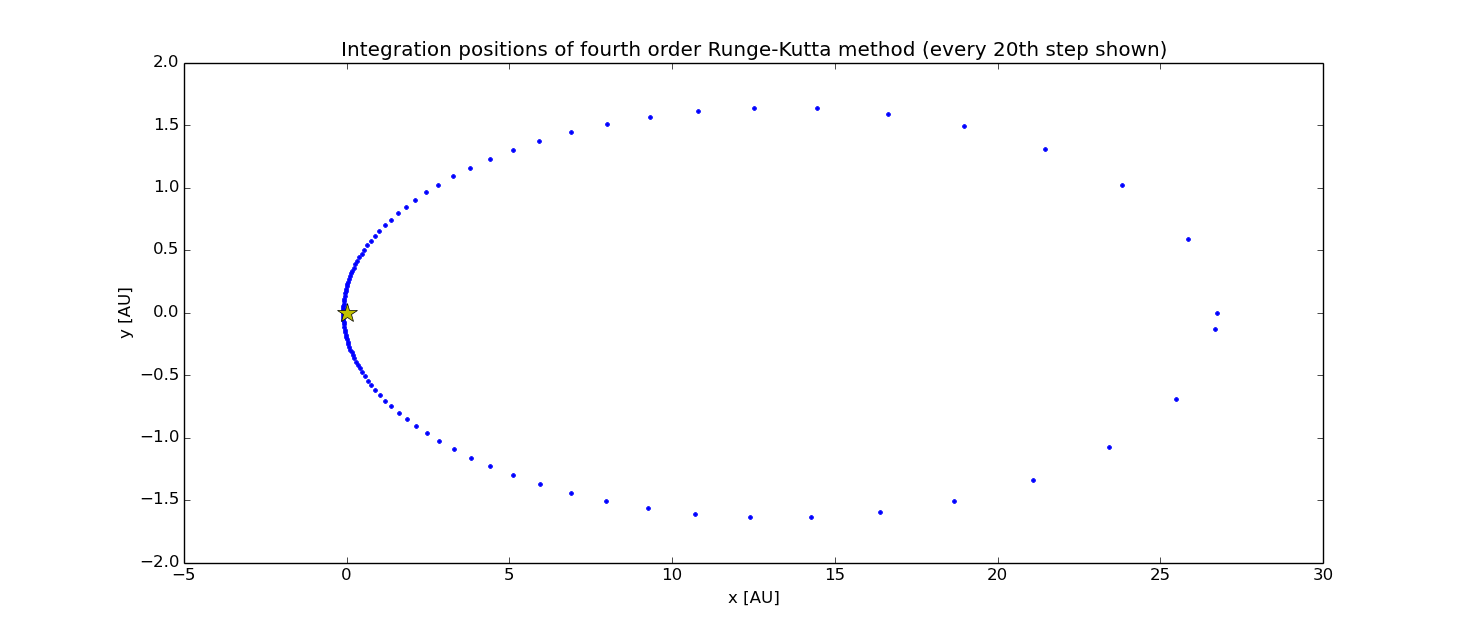
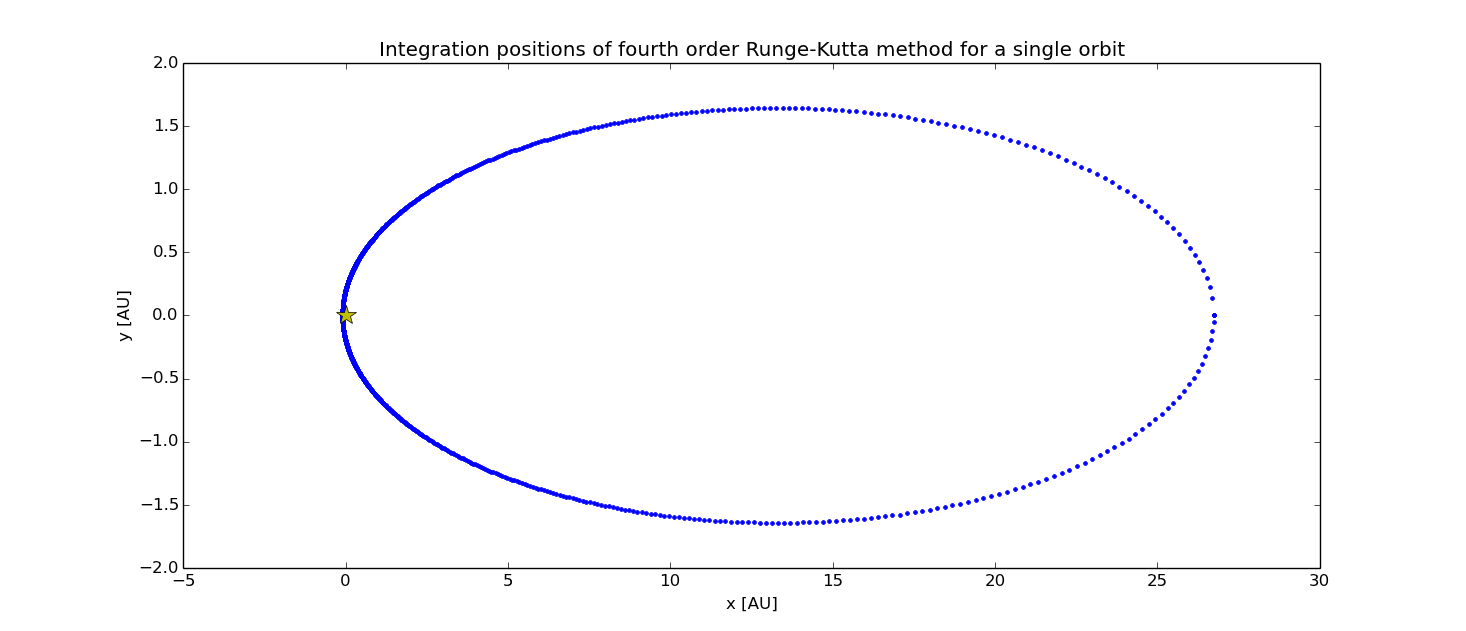
Finished (really) lab 6

diff --git a/Lab6/lab6.tex b/Lab6/lab6.tex
@@ -27,7 +27,7 @@
 \begin{figure}[H]
 \centering
 \includegraphics[width = \linewidth]{lab6q1.png}
-\caption{}
+\caption{Orbit integration with a fixed step size}
 \label{fig:q1}
 \end{figure}
  
@@ -38,16 +38,16 @@ Figure \ref{fig:q1} was made with a step size of 0.0005 years. The calculation t
 \begin{figure}[H]
 \centering
 \includegraphics[width = \linewidth]{lab6q2.png}
-\caption{}
+\caption{Orbit integration with adaptive step size}
 \label{fig:q2}
 \end{figure}
 
-Figure \ref{fig:q2} was made with varying step size, shown in Figure \ref{fig:q2i}. The calculation took, on average, 0.65 seconds to run. This is a vast improvement on the fixed step size method. The trade off came in the error, which on average was $3.8\e{-10} AU$, compared with $2.5\e{-12} AU$ in the previous part. This error could be adjusted, however, by chaning the $\delta$ parameter that determined the desired level of accuracy. If $\delta$ was changed from 1 km to 1 m, for exmaple, runtime increased to about 5 seconds, but error was reduced to $6.0\e{-14} AU$.
+Figure \ref{fig:q2} was made with varying step size, shown in Figure \ref{fig:q2i}. The calculation took, on average, 0.65 seconds to run. This is a vast improvement on the fixed step size method. The trade off came in the error, which on average was $3.8\e{-10} AU$, compared with $2.5\e{-12} AU$ in the previous part. This error could be adjusted, however, by chaning the $\delta$ parameter that determined the desired level of accuracy. If $\delta$ was changed from 1 km to 1 m, for example, runtime increased to about 5 seconds, but error was reduced to $6.0\e{-14} AU$.
 
 \begin{figure}[H]
 \centering
 \includegraphics[width = \linewidth]{lab6q2additional.png}
-\caption{}
+\caption{Adaptive step size over time. As expected (barring some strange behviour in the first few integration steps due to apparently zero errors) the step size varies periodically as the orbit does. Also as expected, adaptive step size increases when the comet is far from the sun and decreases as it approaches. The fixed step size of h = 0.0005 is not even visible on the scale size of this plot, so adaptive methods obviously represent a vast improvement.}
 \label{fig:q2i}
 \end{figure}
 
@@ -62,6 +62,8 @@ Figure \ref{fig:q2} was made with varying step size, shown in Figure \ref{fig:q2
 
 \section{Question 5}
 
+For this part, I have included the plots of trajectories in position space as well as plotting both x and y trajectories against time. This was done to demonstrate motion that was not always obvious in the position space plots. All points have been colour coded to represent their position in time - red points are at early times and blue points are at late times. The position of the point on the timescale from 0 to 2 time units is indicated by its position in the rainbow spectrum between red and blue. 
+
 \subsection{Part a)}
 \begin{figure}[H]
 \centering
@@ -73,7 +75,7 @@ Figure \ref{fig:q2} was made with varying step size, shown in Figure \ref{fig:q2
 \begin{figure}[H]
 \centering
 \includegraphics[width = \linewidth]{lab6q5ai.png}
-\caption{}
+\caption{As expected, there is no y-motion, since the particles lie along the same line in y. However, the behaviour in x is more dramatic. As expected, at larger separations, the particles attract each other, but as they grow closer they begin to repel.}
 \label{fig:q5ai}
 \end{figure}
 
@@ -89,7 +91,7 @@ Figure \ref{fig:q2} was made with varying step size, shown in Figure \ref{fig:q2
 \begin{figure}[H]
 \centering
 \includegraphics[width = \linewidth]{lab6q5bi.png}
-\caption{}
+\caption{In this case the particles begin so close together that the repulsive force generates a very strong acceleration away. Thus the two particles go off to $-\infty$ and $\infty$ respectively in x. The y direciton still sees no motion because both particles begin at constant y and there is no force to perturb them from it.}
 \label{fig:q5bi}
 \end{figure}
 
@@ -105,8 +107,24 @@ Figure \ref{fig:q2} was made with varying step size, shown in Figure \ref{fig:q2
 \begin{figure}[H]
 \centering
 \includegraphics[width = \linewidth]{lab6q5ci.png}
-\caption{}
+\caption{These two particles started far enough apart that neither the attractive or repulsive forces are significant (or if they are, their components cancel), so the particles do not move from their initial position.}
 \label{fig:q5ci}
+\end{figure}
+
+\subsection{Part d)}
+
+\begin{figure}[H]
+\centering
+\includegraphics[width = \linewidth]{lab6q5d.png}
+\caption{}
+\label{fig:q5d}
+\end{figure}
+
+\begin{figure}[H]
+\centering
+\includegraphics[width = \linewidth]{lab6q5di.png}
+\caption{For these intial conditions, the two particles oscillate in both x and y, neither escaping each other's influence as in Figure ~\ref{fig:q5b} nor remaining inured to each other's presence as in Figure ~\ref{fig:q5c}. While only one cycle is shown here, extending integration time reveals that these particles are bound to oscillate this way for all time.}
+\label{fig:q5di}
 \end{figure}
 
 \section{Question 6}
@@ -122,16 +140,9 @@ Figure \ref{fig:q2} was made with varying step size, shown in Figure \ref{fig:q2
 
 \begin{figure}[H]
 \centering
-\includegraphics[width = \linewidth]{lab6q7.png}
+\includegraphics[width = \linewidth]{lab6q7_5.png}
 \caption{}
 \label{fig:q7}
-\end{figure}
-
-\begin{figure}[H]
-\centering
-\includegraphics[width = \linewidth]{lab6q7additional.png}
-\caption{}
-\label{fig:q7i}
 \end{figure}
 
 \section{Question 8}

diff --git a/Lab6/lab6_q5.py b/Lab6/lab6_q5.py
@@ -71,9 +71,10 @@ nstep = 1.e2
 t = np.arange(0,dt*nstep,dt)
 
 # Choose initial conditions by uncommenting any rinit below
-rinit = np.array([[4.,4.],[6.,4.]])
-rinit = np.array([[4.9,4.],[5.1,4.]])
-rinit = np.array([[2.,3.],[7.,6.]])
+rinit = np.array([[4.,4.],[6.,4.]]) # part a
+#rinit = np.array([[4.9,4.],[5.1,4.]]) # part b
+#rinit = np.array([[2.,3.],[7.,6.]]) # part c
+#rinit = np.array([[3.5,4.5],[5.,3.5]]) # part d
 
 # Set initial velocities to zero
 vinit = np.array([[0,0],[0,0]])
@@ -88,23 +89,25 @@ part2 = rs[:,1]
 ################################## PLOT ##################################
 
 plt.figure()
-plt.plot(part1[:,0],part1[:,1],'.')
-plt.plot(part2[:,0],part2[:,1],'.')
+plt.scatter(part1[:,0], part1[:,1], c=t[::-1], s=500)
+plt.scatter(part2[:,0], part2[:,1], c=t[::-1], s=500)
 plt.xlabel('x')
 plt.ylabel('y')
 plt.title('Trajectories of particles with starting positions ({0},{1}) and ({2},{3})'.format(rinit[0][0],rinit[0][1],rinit[1][0],rinit[1][1]))
 
 plt.figure()
 plt.subplot(211)
-plt.plot(t,part1[:,0],label = 'Particle 1')
-plt.plot(t,part2[:,0],label = 'Particle 2')
+plt.scatter(t, part1[:,0], c=t[::-1], s=50)
+plt.scatter(t, part2[:,0], c=t[::-1], s=50)
+plt.xlim(min(t),max(t))
 plt.ylabel('X position')
 plt.legend(loc = 'best')
 plt.subplot(212)
-plt.plot(t,part1[:,1])
-plt.plot(t,part2[:,1])
+plt.scatter(t, part1[:,1], c=t[::-1], s=50)
+plt.scatter(t, part2[:,1], c=t[::-1], s=50)
 plt.xlabel('Time')
 plt.ylabel('Y position')
+plt.xlim(min(t),max(t))
 plt.suptitle('Evolution of x and y position with time')
 
 plt.show()

diff --git a/Lab6/lab6_q3.py b/Lab6/lab6_q3.py
@@ -14,7 +14,7 @@ vy0 = (5.e2/AU)*yr #AU/yr
 
 h0 = 0.0005
 hmax = 50.*h0
-totaltime = 100.
+totaltime = 48.
 delta = 1.e3/AU
 
 def f(r):
@@ -73,11 +73,12 @@ print 'Time to run: ', end - start,' s'
 rvals = np.sqrt(rs[:,0]**2 + rs[:,1]**2)
 
 plt.figure()
-plt.plot(rs[:,0][0::20],rs[:,1][0::20],'.')
+#plt.plot(rs[:,0][0::20],rs[:,1][0::20],'.')
+plt.plot(rs[:,0],rs[:,1],'.')
 plt.plot(0,0,'y*',markersize = 15)
 plt.xlabel('x [AU]')
 plt.ylabel('y [AU]')
-plt.title('Integration positions of fourth order Runge-Kutta method (every 20th step shown)')
+plt.title('Integration positions of fourth order Runge-Kutta method for a single orbit')
 
 '''plt.figure()
 plt.subplot(211)
